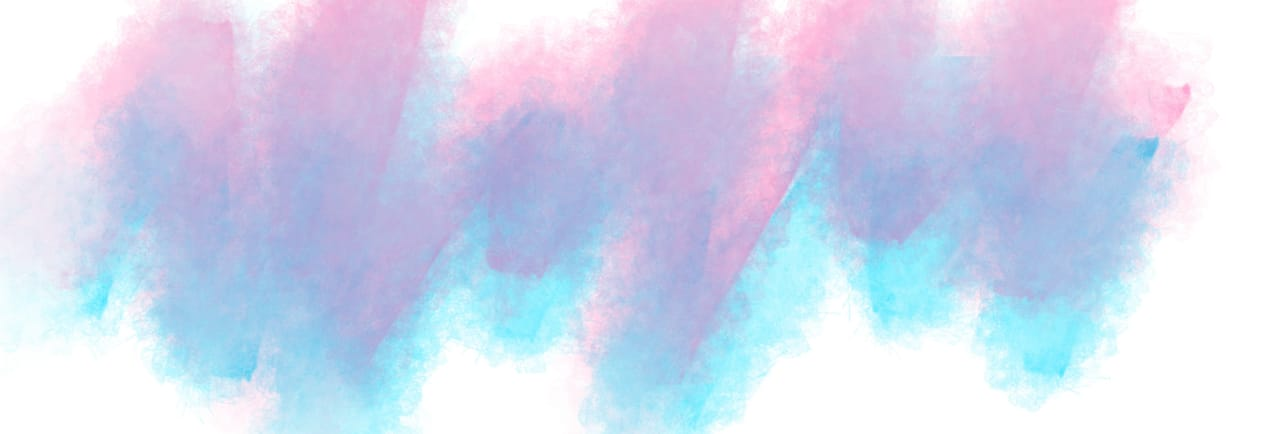
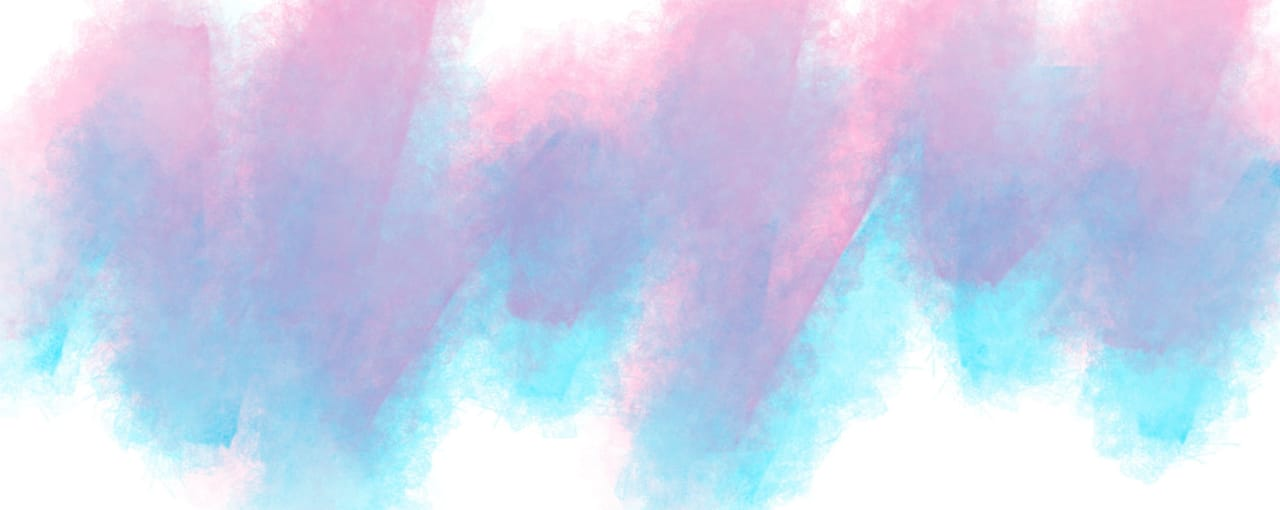
home page final 2.0

diff --git a/index.html b/index.html
@@ -12,12 +12,12 @@
     <meta content="" name="keywords">
     <meta content="width=device-width, initial-scale=1, maximum-scale=1" name="viewport">
     <!-- Laxt v1.0 || ex nihilo || December 2017 - January 2018 -->
-    <!-- style start -->
+    <link href="https://fonts.googleapis.com/css2?family=Press+Start+2P&display=swap" rel="stylesheet">
     <link href="css/css-plugins.css" media="all" rel="stylesheet" type="text/css">
     <link href="css/css-style.css" media="all" rel="stylesheet" type="text/css">
     <!-- style end -->
     <link rel="stylesheet" href="https://maxcdn.bootstrapcdn.com/bootstrap/4.4.1/css/bootstrap.min.css">
-
+    <link href="https://fonts.googleapis.com/css2?family=Rock+Salt&display=swap" rel="stylesheet">
     <!-- jQuery library -->
     <script src="https://ajax.googleapis.com/ajax/libs/jquery/3.4.1/jquery.min.js"></script>
 
@@ -31,6 +31,7 @@
         href="http://fonts.googleapis.com/css?family=Raleway:100,200,300,400,500,600,700,800,900%7CMontserrat:400,700%7CPoppins:400,400i,500,500i,600,600i,700,700i,800,800i,900,900i"
         rel="stylesheet" type="text/css">
     <!-- google fonts end -->
+    <link href="https://fonts.googleapis.com/css2?family=Monoton&display=swap" rel="stylesheet">
     <style>
         /*dk*/
 
@@ -925,9 +926,12 @@
                             </div>
                             <div class=" col-lg-6 col-md-12">
 
-                                <h1 style="color: rgba(133,253,43,0.9);
-                                text-shadow: 2px 8px 6px rgba(133,253,43,0.5),
-                                                 0px -5px 35px rgba(255,255,255,0.9);font-weight: bold;">Here's a sneak
+                                <h1
+                                    style="color:rgba(0,0,0,1);
+                                    font-size:4vw;
+                                text-shadow: 2px 8px 6px rgb(252, 53, 152,0.4),
+                                                 0px -5px 35px rgb(23, 223, 2530.6);font-family: 'Press Start 2P', cursive;">
+                                    Here's a sneak
                                     peak of the game...
                                 </h1>
                             </div>

diff --git a/css/css-style.css b/css/css-style.css
@@ -95,11 +95,12 @@ div.desktop-wrapper iframe {
 
 .vdo {
   background-image: url('..//screen.jpg');
-  background-size: contain;
+  background-size: cover;
+  background-repeat: repeat-x;
   background-attachment: scroll;
-  background-repeat: repeat-y;
+
   /* background-repeat: space; */
-  box-shadow: inset 4px 80px 5000px rgba(0, 0, 0, 0.8), inset 4px 80px 5000px rgba(7, 68, 71, 0.8);
+  box-shadow: inset 4px 80px 100px rgba(0, 0, 0, 0.6);
 }
 
 #wrapper {
